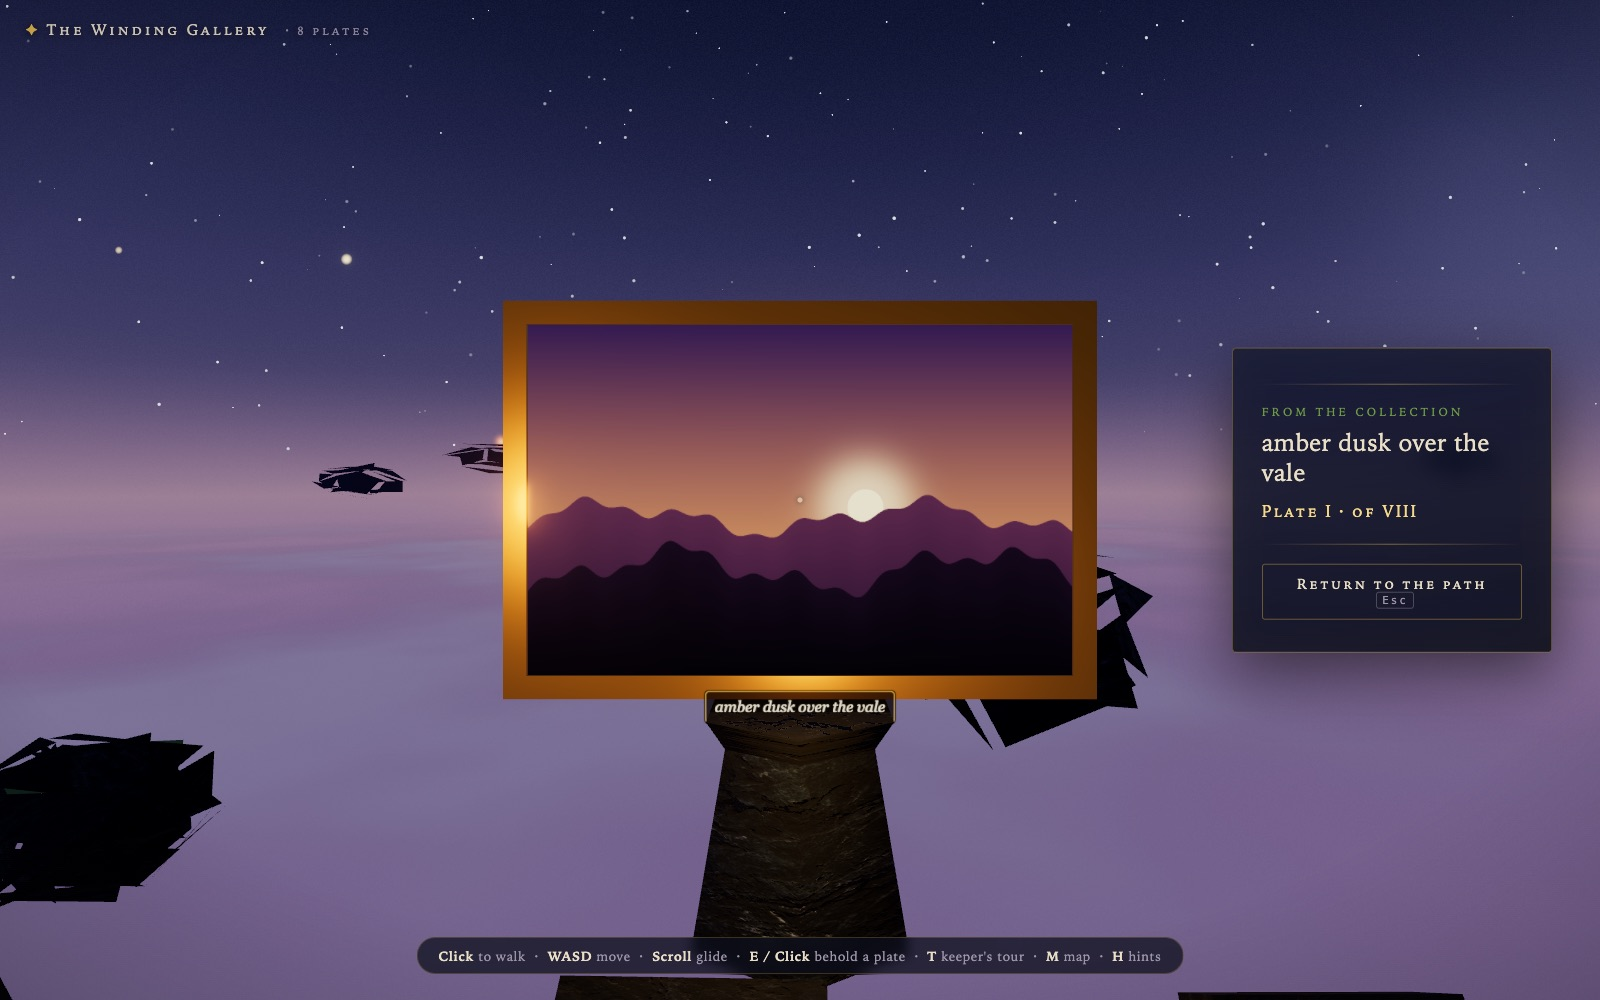
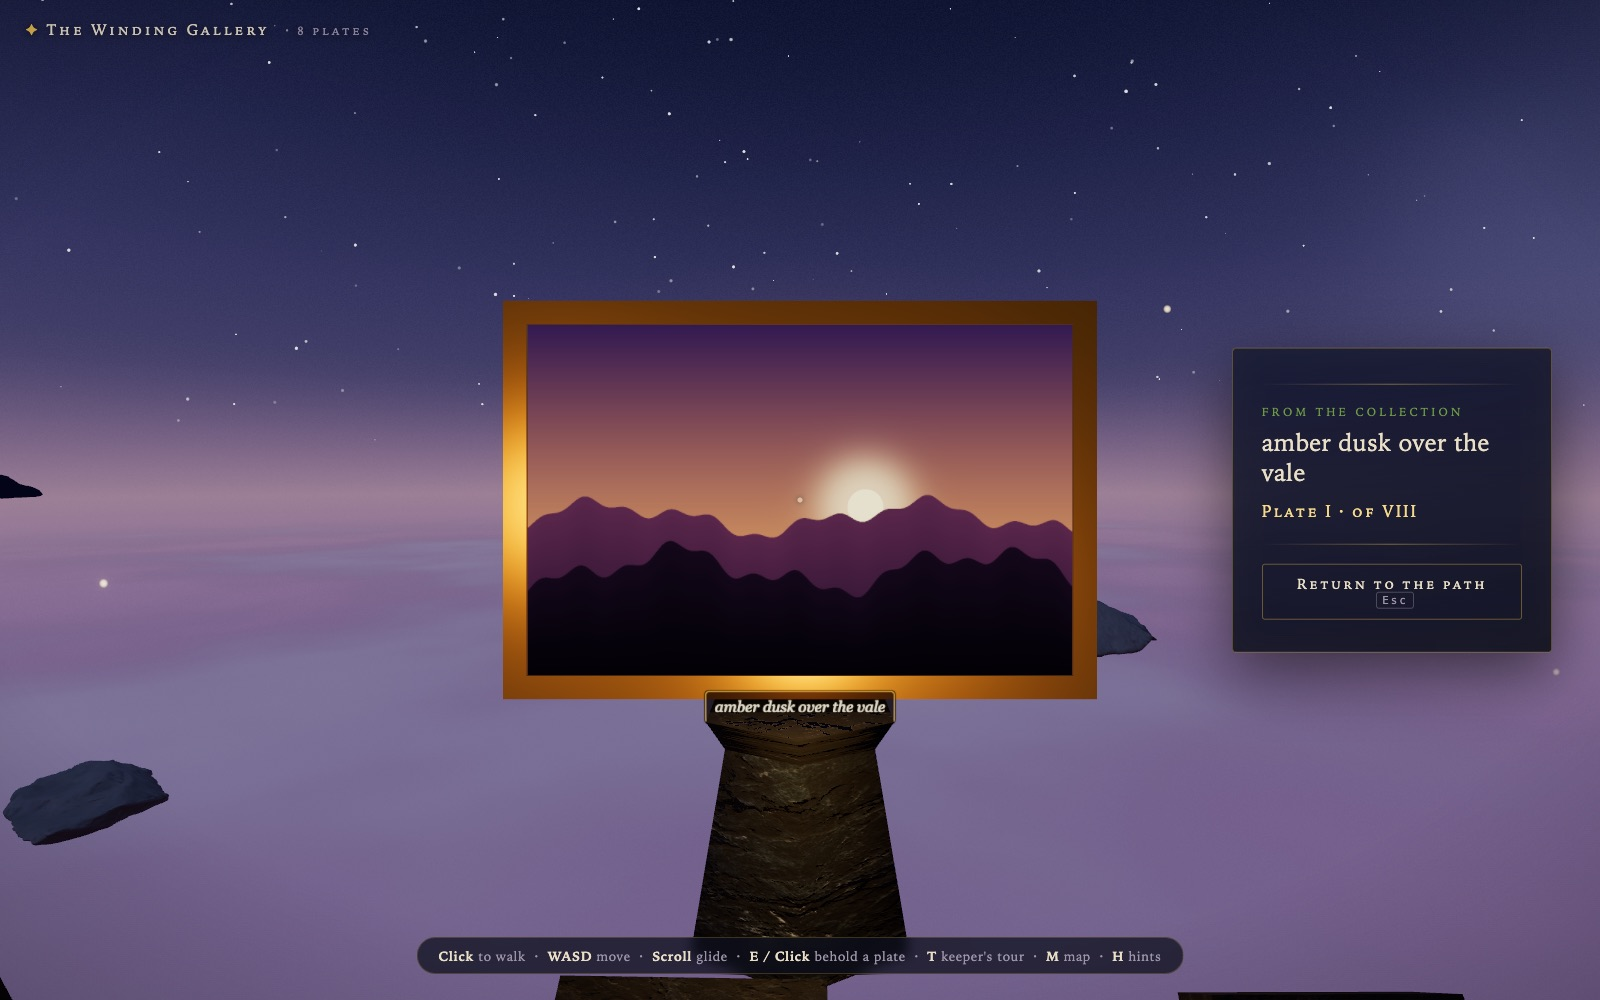
Real floating islands, and arches that stand clear of the plates
The drifting rocks are now photoscanned boulders (Poly Haven CC0:
Rock 07 and two Moon Rocks), simplified and meshopt-compressed to
60-112 KB each, instanced with per-island yaw and stretch; the far
horizon silhouettes share their outlines. The old jittered shards
remain only as a load-failure fallback. GLTFLoader now registers
MeshoptDecoder - without it the rocks failed silently into that
fallback, which cost two rounds of reviewing the wrong geometry.

Decorative arches stood at each segment's midpoint, exactly where
every photo plate stands, so plates overlapped the arch each time one
appeared. Arches now stand at the segment's start.

Also: PCFShadowMap (r185 deprecated the Soft variant), PMREM sigma
lowered to stop the sampling clip warning, README screenshots
recaptured with the real islands.

Claude-Session: https://claude.ai/code/session_01UrdZHu8wfAALZ1NXcevom5

diff --git a/public/main.js b/public/main.js
@@ -2,6 +2,7 @@
 // An endless winding sky-path hung with your photographs.
 import * as THREE from 'three';
 import { GLTFLoader } from '/vendor/three-addons/loaders/GLTFLoader.js';
+import { MeshoptDecoder } from '/vendor/three-addons/libs/meshopt_decoder.module.js';
 import { EffectComposer } from '/vendor/three-addons/postprocessing/EffectComposer.js';
 import { RenderPass } from '/vendor/three-addons/postprocessing/RenderPass.js';
 import { UnrealBloomPass } from '/vendor/three-addons/postprocessing/UnrealBloomPass.js';
@@ -82,7 +83,7 @@ renderer.toneMappingExposure = 1.08;
 renderer.outputColorSpace = THREE.SRGBColorSpace;
 if (!LOW_FX) {
   renderer.shadowMap.enabled = true;
-  renderer.shadowMap.type = THREE.PCFSoftShadowMap;
+  renderer.shadowMap.type = THREE.PCFShadowMap;
 }
 
 const scene = new THREE.Scene();
@@ -262,7 +263,7 @@ skyGroup.add(new THREE.Mesh(new THREE.SphereGeometry(1600, 32, 20), skyMat));
     envScene.add(glint);
   }
   const pmrem = new THREE.PMREMGenerator(renderer);
-  scene.environment = pmrem.fromScene(envScene, 0.09).texture;
+  scene.environment = pmrem.fromScene(envScene, 0.04).texture;
   scene.environmentIntensity = 0.38;
   pmrem.dispose();
 }
@@ -364,16 +365,26 @@ const trunkGeo = new THREE.CylinderGeometry(0.09, 0.12, 0.5, 5);
 
 // ───────────────────────────────────────── the deep distance ──
 // Far islands adrift on the horizon — some carrying a lantern-town
-// spark — so the vista has landmarks instead of empty fog.
-{
+// spark — so the vista has landmarks instead of empty fog. Built once
+// the rock model has loaded (boot), so they share its silhouette.
+function buildHorizonIsles() {
   const isleMat = new THREE.MeshBasicMaterial({ color: 0x10122a, fog: false });
   const isleRand = seededRand(4099);
   for (let i = 0; i < 10; i++) {
     const a = isleRand() * Math.PI * 2;
     const d = 1050 + isleRand() * 320;
-    const isle = new THREE.Mesh(rockGeos[i % rockGeos.length], isleMat);
+    const proto = rockProtos.length ? rockProtos[i % rockProtos.length] : null;
+    const isle = proto
+      ? new THREE.Mesh(proto.geometry, isleMat)
+      : new THREE.Mesh(rockGeos[i % rockGeos.length], isleMat);
+    const w = 36 + isleRand() * 60, h = 20 + isleRand() * 26;
     isle.position.set(Math.cos(a) * d, (-0.015 + isleRand() * 0.05) * d, Math.sin(a) * d);
-    isle.scale.set(36 + isleRand() * 60, 20 + isleRand() * 26, 36 + isleRand() * 60);
+    if (proto) {
+      isle.scale.set(w / proto.half, h / proto.height, w / proto.half);
+      isle.position.y -= h * 0.4; // origin at the rock's base, not its middle
+    } else {
+      isle.scale.set(w, h, w);
+    }
     isle.rotation.y = isleRand() * Math.PI * 2;
     skyGroup.add(isle);
     if (isleRand() < 0.6) {
@@ -384,7 +395,7 @@ const trunkGeo = new THREE.CylinderGeometry(0.09, 0.12, 0.5, 5);
       }));
       spark.scale.setScalar(30);
       spark.position.copy(isle.position);
-      spark.position.y += isle.scale.y * 0.7;
+      spark.position.y += h * 0.9;
       skyGroup.add(spark);
     }
   }
@@ -471,6 +482,33 @@ const placeholderTex = (() => {
   t.colorSpace = THREE.SRGBColorSpace;
   return t;
 })();
+
+// ──────────────────────────────── the drifting rocks (Poly Haven CC0) ──
+// Photoscanned boulders; every island adrift around the path is an
+// instance of one. Falls back to the old jittered shards if none load.
+const rockProtos = [];       // { geometry, material, half, height } — origin on the footprint
+function loadIsleRocks() {
+  const loader = new GLTFLoader();
+  loader.setMeshoptDecoder(MeshoptDecoder); // the rocks are meshopt-compressed
+  return Promise.all(['/assets/isle-rock-1.glb', '/assets/isle-rock-2.glb', '/assets/isle-rock-3.glb']
+    .map((url) => new Promise((resolve) => {
+      loader.load(url, (gltf) => {
+        gltf.scene.traverse((o) => {
+          if (o.isMesh) {
+            const g = o.geometry;
+            g.computeBoundingBox();
+            const bb = g.boundingBox;
+            // center each rock on its own footprint, sitting on y=0
+            g.translate(
+              -(bb.min.x + bb.max.x) / 2, -bb.min.y, -(bb.min.z + bb.max.z) / 2);
+            const half = Math.max(bb.max.x - bb.min.x, bb.max.z - bb.min.z) / 2;
+            rockProtos.push({ geometry: g, material: o.material, half, height: bb.max.y - bb.min.y });
+          }
+        });
+        resolve();
+      }, undefined, () => resolve());
+    })));
+}
 
 // ───────────────────────────────────────── the lantern (Khronos CC0 model) ──
 let lanternProto = null;                                // Group, ground at y=0, arm along +X
@@ -865,7 +903,9 @@ function buildSegment(idx) {
       group.add(plate);
     }
   } else if (idx % 6 === 3) {
-    const s = s0 + SEG_LEN * 0.5;
+    // stand the arch at the segment's start, well clear of the photo
+    // plate that always occupies the midpoint
+    const s = s0 + 1.6;
     pathFrame(s, _pos, _tan, _side);
     const R = PATH_W / 2 + 1.3;
     const arch = new THREE.Mesh(new THREE.TorusGeometry(R, 0.34, 6, 22, Math.PI), stoneMat);
@@ -886,7 +926,9 @@ function buildSegment(idx) {
     }
   }
 
-  // — floating rocks adrift around the path —
+  // — floating islands adrift around the path —
+  // photoscanned mossy rock (Poly Haven), yawed and stretched per island;
+  // the jittered shards remain only as a fallback if the model failed
   {
     const n = 2 + Math.floor(rand() * 3);
     for (let j = 0; j < n; j++) {
@@ -894,36 +936,42 @@ function buildSegment(idx) {
       pathFrame(s, _pos, _tan, _side);
       const lat = (rand() < 0.5 ? -1 : 1) * (9 + rand() * 26);
       const y = _pos.y + (rand() - 0.35) * 16 - 4;
-      const rock = new THREE.Mesh(rockGeos[Math.floor(rand() * rockGeos.length)], stoneDarkMat);
+      const phase = rand() * 9;
+      let rock, topY;
+      if (rockProtos.length) {
+        const proto = rockProtos[Math.floor(rand() * rockProtos.length)];
+        rock = new THREE.Mesh(proto.geometry, proto.material);
+        const k = (1.6 + rand() * 3.2) / proto.half;
+        rock.scale.set(
+          k * (0.8 + rand() * 0.5),
+          k * (0.7 + rand() * 0.55),
+          k * (0.8 + rand() * 0.5));
+        rock.rotation.y = rand() * Math.PI * 2; // yaw only — the weathered top stays up
+        topY = proto.height * rock.scale.y;
+      } else {
+        rock = new THREE.Mesh(rockGeos[Math.floor(rand() * rockGeos.length)], stoneDarkMat);
+        rock.scale.setScalar(1 + rand() * 3.2);
+        rock.rotation.set(rand() * 0.6, rand() * Math.PI * 2, rand() * 0.6);
+        topY = rock.scale.y * 0.55;
+      }
       rock.receiveShadow = true;
       rock.position.set(_pos.x + _side.x * lat, y, _pos.z + _side.z * lat);
-      rock.scale.setScalar(1 + rand() * 3.2);
-      rock.rotation.set(rand() * 0.6, rand() * Math.PI * 2, rand() * 0.6);
       group.add(rock);
-      seg.bobbers.push({ obj: rock, base: y, amp: 0.35 + rand() * 0.5, phase: rand() * 9 });
+      seg.bobbers.push({ obj: rock, base: y, amp: 0.35 + rand() * 0.5, phase });
 
-      if (rand() < 0.4) {
-        const moss = new THREE.Mesh(capGeo, mossMat);
-        moss.receiveShadow = true;
-        moss.scale.set(rock.scale.x * 1.5, 0.5, rock.scale.z * 1.5);
-        moss.position.copy(rock.position);
-        moss.position.y += rock.scale.y * 0.55;
-        group.add(moss);
-        seg.bobbers.push({ obj: moss, base: moss.position.y, amp: 0.35, phase: seg.bobbers.at(-1).phase });
-        if (rand() < 0.6) {
-          const tree = new THREE.Group();
-          const trunk = new THREE.Mesh(trunkGeo, barkMat);
-          const cone = new THREE.Mesh(pineGeo, mossMat);
-          trunk.castShadow = cone.castShadow = true;
-          cone.position.y = 1.2;
-          trunk.position.y = 0.2;
-          tree.add(trunk, cone);
-          tree.scale.setScalar(0.8 + rand() * 1.4);
-          tree.position.copy(moss.position);
-          tree.position.y += 0.2;
-          group.add(tree);
-          seg.bobbers.push({ obj: tree, base: tree.position.y, amp: 0.35, phase: seg.bobbers.at(-1).phase });
-        }
+      if (rand() < 0.5) {
+        const tree = new THREE.Group();
+        const trunk = new THREE.Mesh(trunkGeo, barkMat);
+        const cone = new THREE.Mesh(pineGeo, mossMat);
+        trunk.castShadow = cone.castShadow = true;
+        cone.position.y = 1.2;
+        trunk.position.y = 0.2;
+        tree.add(trunk, cone);
+        tree.scale.setScalar(0.8 + rand() * 1.4);
+        tree.position.copy(rock.position);
+        tree.position.y += topY * 0.82;
+        group.add(tree);
+        seg.bobbers.push({ obj: tree, base: tree.position.y, amp: 0.35, phase });
       }
     }
   }
@@ -1585,7 +1633,8 @@ function computeWalkPose(dt) {
 // ───────────────────────────────────────── boot ──
 async function boot() {
   try {
-    const [res] = await Promise.all([fetch('/api/photos'), loadLantern()]);
+    const [res] = await Promise.all([fetch('/api/photos'), loadLantern(), loadIsleRocks()]);
+    buildHorizonIsles();
     const data = await res.json();
     photos = data.photos;
     wings = data.wings || [];

diff --git a/ASSETS.md b/ASSETS.md
@@ -9,10 +9,15 @@ but gratefully given:
 | `public/assets/rock-color.jpg`, `rock-normal.jpg`, `rock-ao.jpg` | [Rock035](https://ambientcg.com/view?id=Rock035) — [ambientCG](https://ambientcg.com) | CC0 1.0 |
 | `public/assets/bark-color.jpg`, `bark-normal.jpg` | [Bark012](https://ambientcg.com/view?id=Bark012) — [ambientCG](https://ambientcg.com) | CC0 1.0 |
 | `public/assets/lantern-slim.glb` | [Lantern](https://github.com/KhronosGroup/glTF-Sample-Assets/tree/main/Models/Lantern) — Microsoft, via Khronos glTF Sample Assets | CC0 1.0 |
+| `public/assets/isle-rock-1.glb` | [Rock 07](https://polyhaven.com/a/rock_07) — [Poly Haven](https://polyhaven.com) | CC0 1.0 |
+| `public/assets/isle-rock-2.glb` | [Moon Rock 04](https://polyhaven.com/a/moon_rock_04) — [Poly Haven](https://polyhaven.com) | CC0 1.0 |
+| `public/assets/isle-rock-3.glb` | [Moon Rock 01](https://polyhaven.com/a/moon_rock_01) — [Poly Haven](https://polyhaven.com) | CC0 1.0 |
 
 Textures were downscaled (512–1024 px) and recompressed for the web; the
-lantern was optimized with [glTF-Transform](https://gltf-transform.dev)
-(512 px WebP textures, 9.6 MB → 271 KB).
+models were optimized with [glTF-Transform](https://gltf-transform.dev) —
+the lantern to 512 px WebP textures (9.6 MB → 271 KB), the photoscanned
+rocks simplified and compressed to 256 px WebP (≈ 2–6 MB → 60–112 KB
+each, meshopt-encoded).
 
 The sample photographs in `photos/` are generated procedurally by
 `scripts/make-sample-photos.js` and are also CC0.

diff --git a/MILESTONES.md b/MILESTONES.md
@@ -170,6 +170,15 @@ the escape hatch.
   things that should glow.
 - Long dark gradients band on 8-bit displays; a hash dither in the sky
   shader is invisible and free.
+- **A silent fallback can hide a loader failure completely.** The
+  photoscanned rocks are meshopt-compressed, and `GLTFLoader` without
+  `setMeshoptDecoder()` fails — into an error callback that quietly fell
+  back to the old procedural shards. Two rounds of "the new rocks look
+  identical" were spent reviewing the fallback. When a fallback exists,
+  first prove which path rendered.
+- Aggressive mesh simplification (`--error 0.02`) tears photoscans into
+  shreds; ratio-led simplification with a tight error bound
+  (`--ratio 0.5 --error 0.001`) keeps them whole.
 
 ## The Ledger of Lessons
 

diff --git a/CHANGELOG.md b/CHANGELOG.md
@@ -29,9 +29,17 @@ whatever stands in **Unreleased**.
     their shape.
   - `?quality=low` keeps the previous lightweight pipeline (no bloom,
     shadows or mist) for modest machines.
+- **Real floating islands** — the drifting rocks are now photoscanned
+  boulders (Poly Haven, CC0; simplified and meshopt-compressed to
+  60–112 KB each) instead of procedurally jittered shards. The far
+  horizon silhouettes share their outlines.
 
 ### Fixed
 
+- Decorative arches stood at each segment's midpoint — exactly where
+  every photo plate stands — so plates overlapped the arch each time
+  one appeared. Arches now stand at the segment's start, clear of the
+  plates.
 - Sky-gradient banding, dithered away in the sky shader.
 
 ## [0.3.0] - 2026-07-06